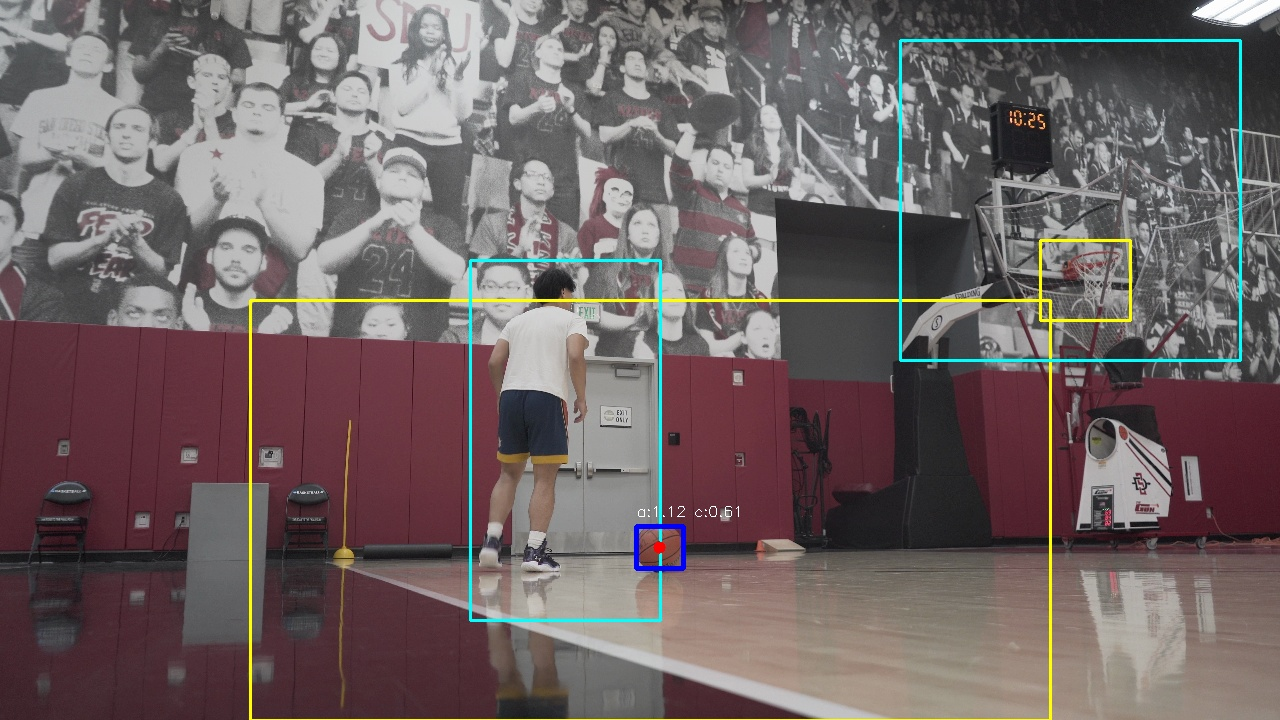
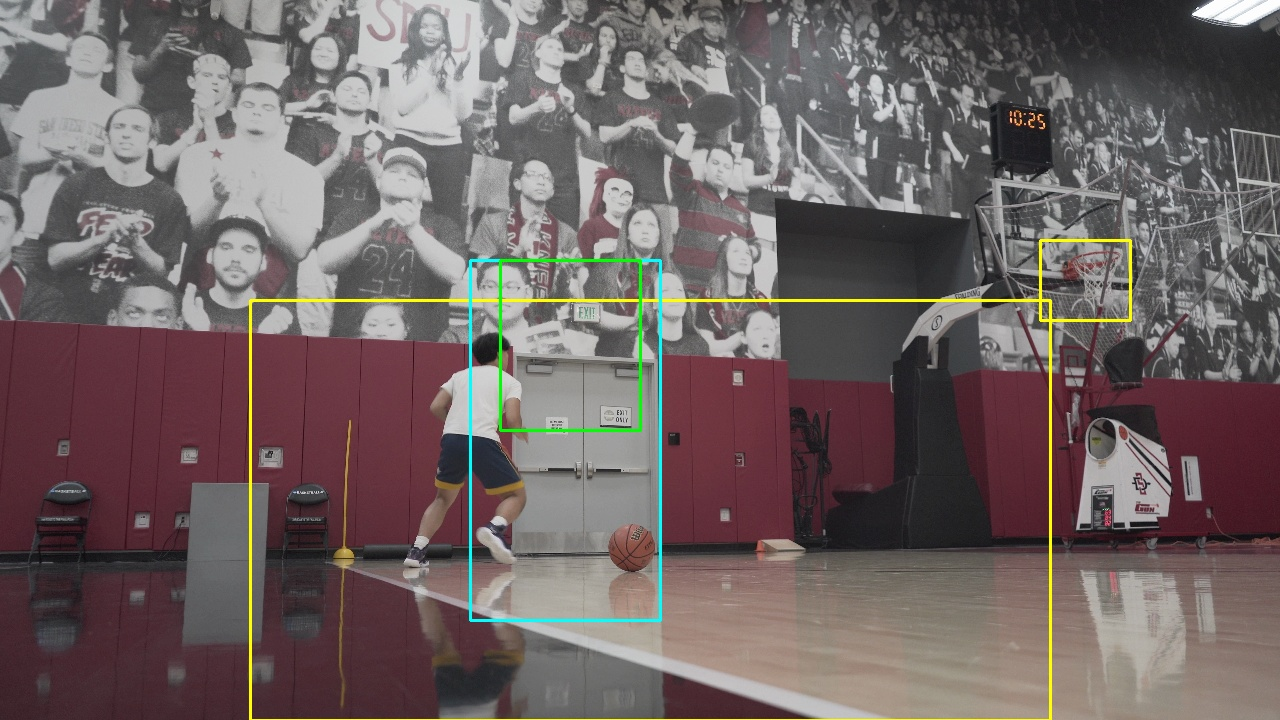
Updated our ball path to use release zone for tracking

Changed region(s): [[0.3125, 0.3361, 0.5, 1.0], [0.6875, 0.0306, 0.9688, 0.5194], [0.4688, 0.7028, 0.5625, 0.8556]]

diff --git a/src/main.py b/src/main.py
@@ -103,10 +103,16 @@ def playVideoFrameFile():
     approach_y2 = 360
 
     # Player init box
-    player_init_x1 = 470
-    player_init_y1 = 260
-    player_init_x2 = 660
-    player_init_y2 = 620
+    player_box_x1 = 470
+    player_box_y1 = 260
+    player_box_x2 = 660
+    player_box_y2 = 620
+
+    # Release zone
+    release_zone_x1 = 500
+    release_zone_y1 = 260
+    release_zone_x2 = 640
+    release_zone_y2 = 430
 
     # 4. Repeatedly read the next frame
     while True:
@@ -169,8 +175,12 @@ def playVideoFrameFile():
         cv.rectangle(debug_frame, (roi_x1, roi_y1), (roi_x2, roi_y2), (0, 255, 255), 2)
 
         # Draw the player pose estimation
-        cv.rectangle(debug_frame, (player_init_x1, player_init_y1),
-                     (player_init_x2, player_init_y2), (255, 255, 0), 2)
+        cv.rectangle(debug_frame, (player_box_x1, player_box_y1),
+                     (player_box_x2, player_box_y2), (255, 255, 0), 2)
+
+        # Draw the release zone
+        cv.rectangle(debug_frame, (release_zone_x1, release_zone_y1),
+                     (release_zone_x2, release_zone_y2), (0, 255, 0), 2)
 
         # Crop ROI
         roi = frame[roi_y1: roi_y2, roi_x1:roi_x2]
@@ -245,8 +255,8 @@ def playVideoFrameFile():
             hoop_center_y = (hoop_roi_y1 + hoop_roi_y2) // 2
 
             # Compute the player center once per frame
-            player_init_center_x = (player_init_x1 + player_init_x2) // 2
-            player_init_center_y = (player_init_y1 + player_init_y2) // 2
+            player_init_center_x = (player_box_x1 + player_box_x2) // 2
+            player_init_center_y = (player_box_y1 + player_box_y2) // 2
 
             # print circularity
             print(f"area={area:.1f}, circularity={circularity:.2f}",
@@ -257,50 +267,46 @@ def playVideoFrameFile():
             candidate = (full_x, full_y, w, h, center_x, center_y, aspect_ratio, circularity)
 
             if not ball_path:
-                distance_to_player_init = math.hypot(
-                    center_x - player_init_center_x,
-                    center_y - player_init_center_y
+                inside_release_zone = (
+                    release_zone_x1 <= center_x <= release_zone_x2 and
+                    release_zone_y1 <= center_y <= release_zone_y2
                 )
 
-                if best_score is None or distance_to_player_init < best_score:
-                    best_score = distance_to_player_init
-                    best_candidate = candidate
+                # move on if this is not in our release
+                if not inside_release_zone:
+                    continue
 
-                # # pick best by circularity
-                # score = circularity
-                # if best_score is None or score > best_score:
-                #     best_score = score
-                #     best_candidate = candidate
+                release_zone_center_x = (release_zone_x1 + release_zone_x2) // 2
+                release_zone_center_y = (release_zone_y1 + release_zone_y2) // 2
+
+                distance_to_release_zone_center = math.hypot(
+                    center_x - release_zone_center_x,
+                    center_y - release_zone_center_y
+                )
+
+                if best_score is None or distance_to_release_zone_center < best_score:
+                    best_score = distance_to_release_zone_center
+                    best_candidate = candidate
             else:
-                # Case 2: already tracking
-                # Track the candidate with the smallest distance to ball_path[-1]
-                # use distance to last tracked point as the score
-                # For each surviving candidate compute distance to last_center
-                # Lower distance == better
                 last_x, last_y = ball_path[-1]
                 distance = math.hypot(center_x - last_x, center_y - last_y)
 
+                # move onto the next one
                 if distance > MAX_JUMP_DISTANCE:
                     continue
 
-                # reject candidates that are too far from the hoop zone, update the flight to also take vertical position
                 if last_x > 900 and last_y < 260:
                     inside_approach_zone = (
-                        approach_x1 <= center_x <= approach_x2 and approach_y1 <= center_y <= approach_y2
+                        approach_x1 <= center_x < approach_x2 and
+                        approach_y1 <= center_y < approach_y2
                     )
                     if not inside_approach_zone:
                         continue
 
-                    # calculate the distance to the hoop
-                    # distance_to_hoop = math.hypot(
-                    #     center_x - hoop_center_x, center_y - hoop_center_y)
+                    if best_score is None or distance < best_score:
+                        best_score = distance
+                        best_candidate = candidate
 
-                    # if distance_to_hoop > MAX_HOOP_DISTANCE:
-                    #     continue
-
-                if best_score is None or distance < best_score:
-                    best_score = distance
-                    best_candidate = candidate
 
         if best_candidate:
             missed_frames = 0

diff --git a/LEARNING_LOG.md b/LEARNING_LOG.md
@@ -1138,3 +1138,33 @@ For early shot-tracking prototypes, these should be treated as separate concepts
 A larger box can include more useful context, but it can also include more distracting candidates.
 
 For ball initialization, a whole-body box may overemphasize the lower body and floor area, while the desired shot ball is usually near the upper body.
+
+# Lesson 65 — Use Nested Zones for Better Initialization
+
+A larger player box and a smaller release zone solve different problems.
+
+- player box = broad context around the shooter
+- release zone = likely starting area for the shot ball
+
+During initialization, candidates should be prioritized by zone membership:
+
+1. inside release zone
+2. inside player box
+3. outside both zones
+
+This is stronger than only measuring distance to a single box center.
+
+# Lesson 66 — Initialization and Tracking Need Separate Branches
+
+A tracker needs two distinct phases:
+
+1. initialization: decide which object to start tracking
+2. tracking: follow the previously selected object over time
+
+If the tracking branch is missing or commented out, the system can initialize once and then immediately lose the object.
+
+# Lesson 67 — It Is Better to Delay Initialization Than Start on the Wrong Ball
+
+If the correct shot ball is not yet in the release zone, the tracker should wait instead of initializing on a floor ball or unrelated candidate.
+
+A delayed but correct initialization is better than an immediate wrong initialization.
